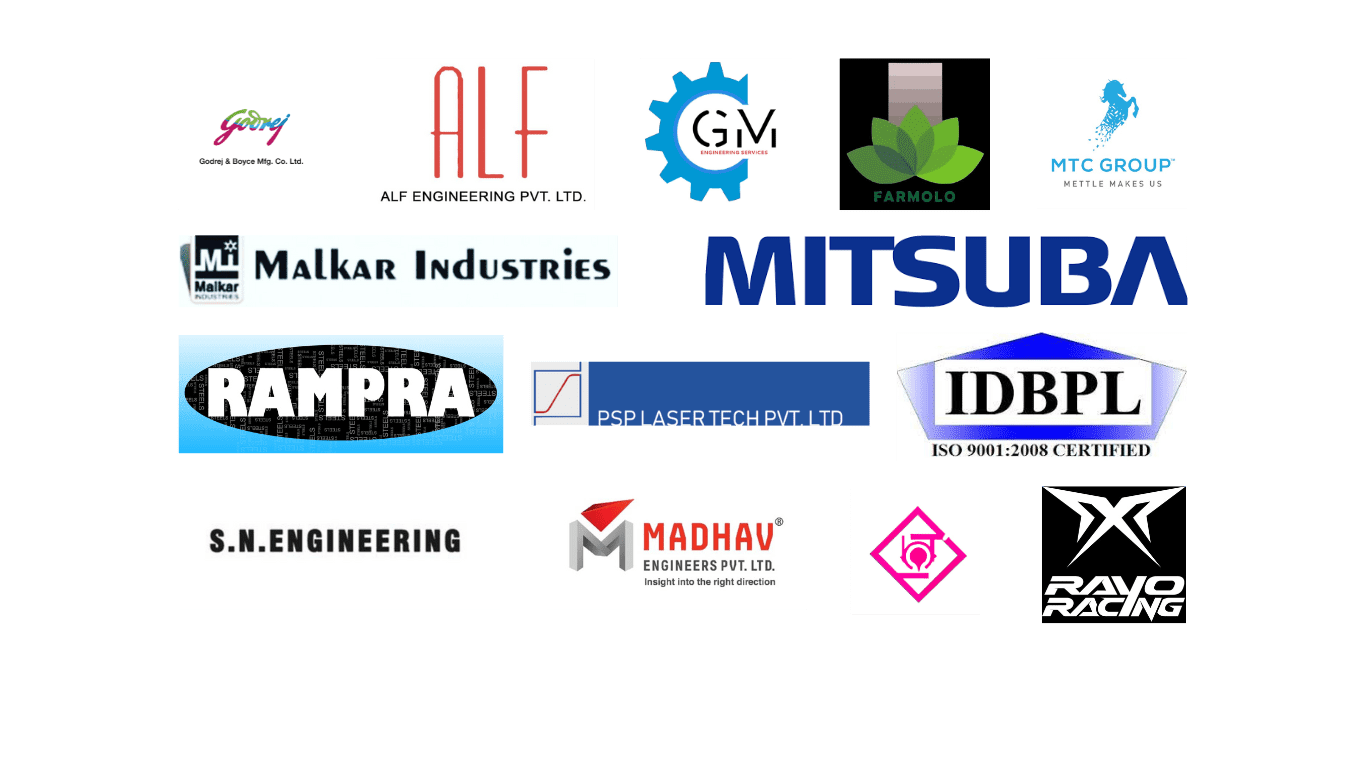
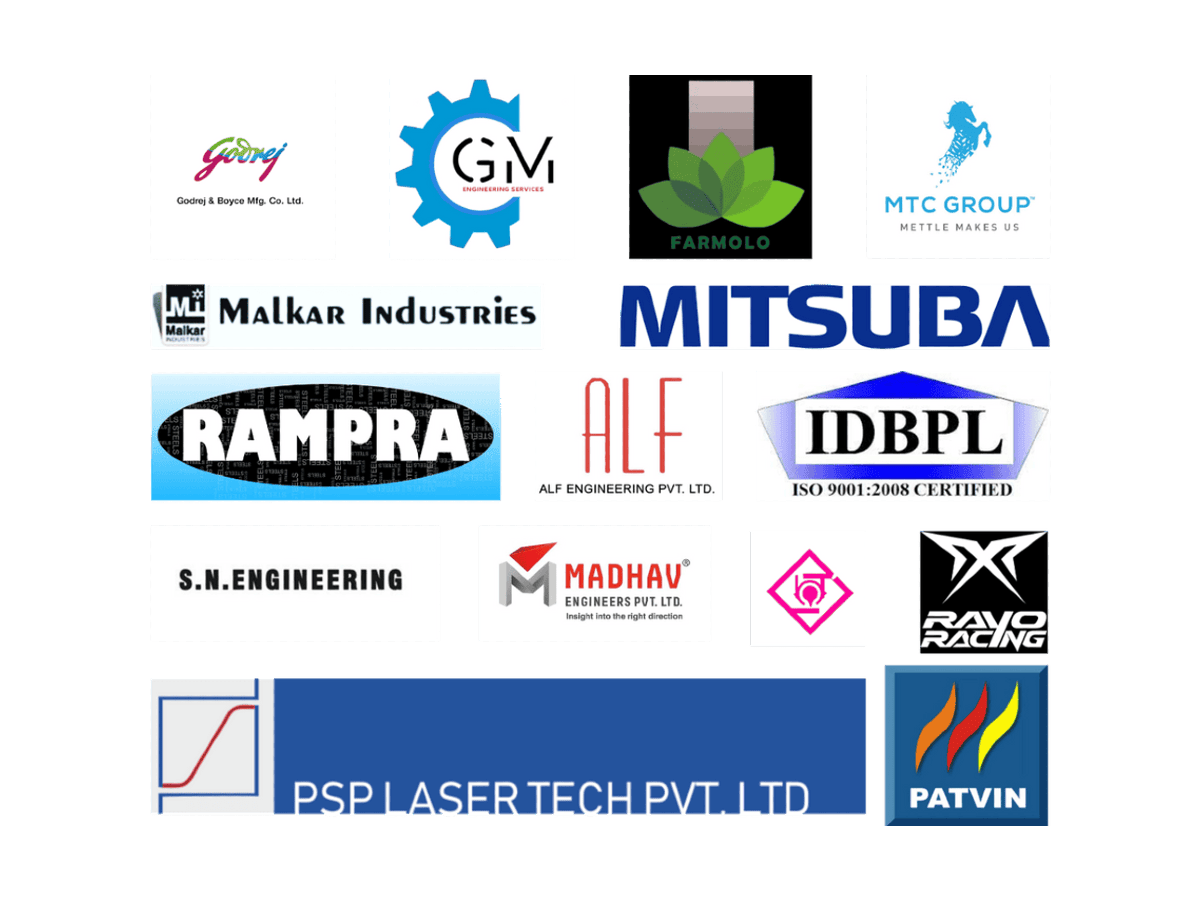
New sponsor added

diff --git a/frontend/src/stylesheets/SponsorUs.css b/frontend/src/stylesheets/SponsorUs.css
@@ -171,7 +171,7 @@
 
 .sponsorsection .currentspons .currsponslandscape {
     display: block;
-    width: 90vw;
+    /* width: 90vw; */
     height: 90vh;
 }
 .sponsorsection .currentspons .currsponsportrait {
